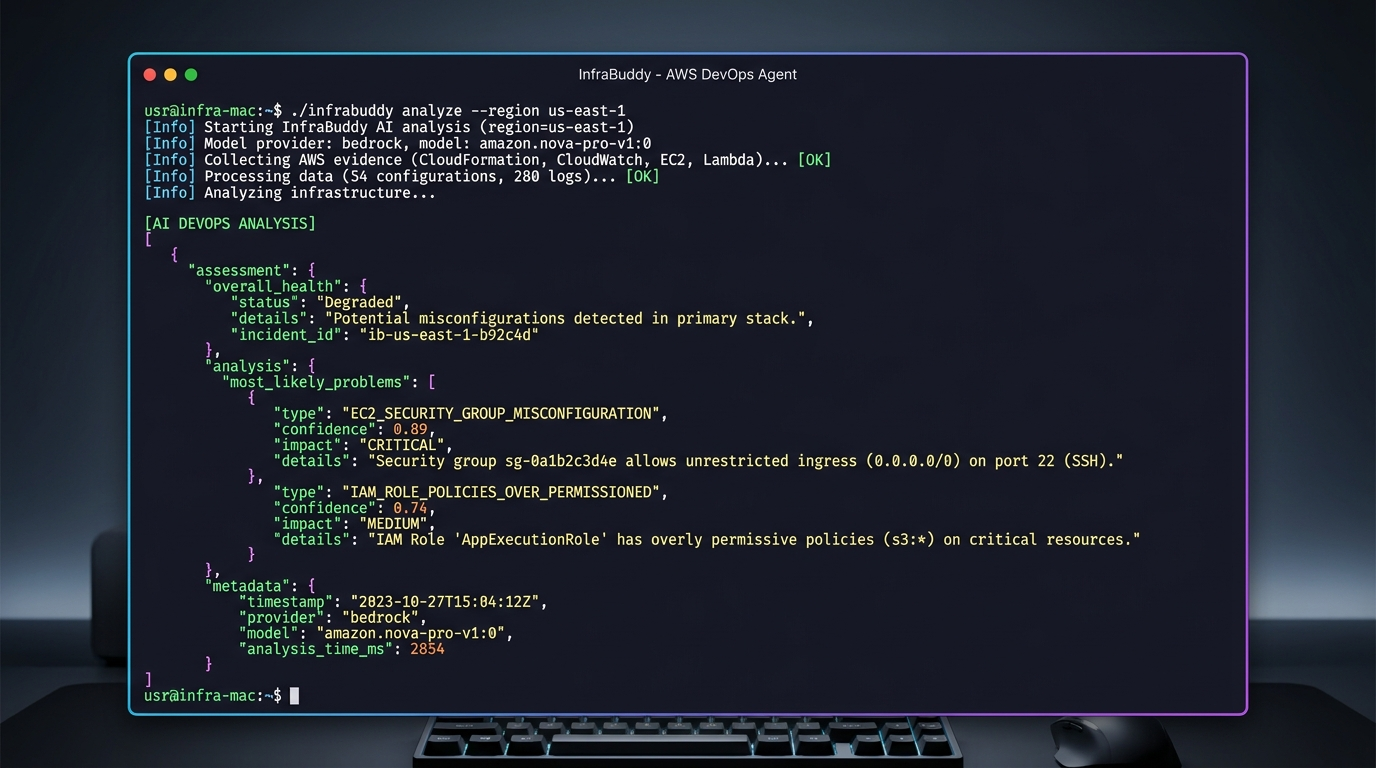
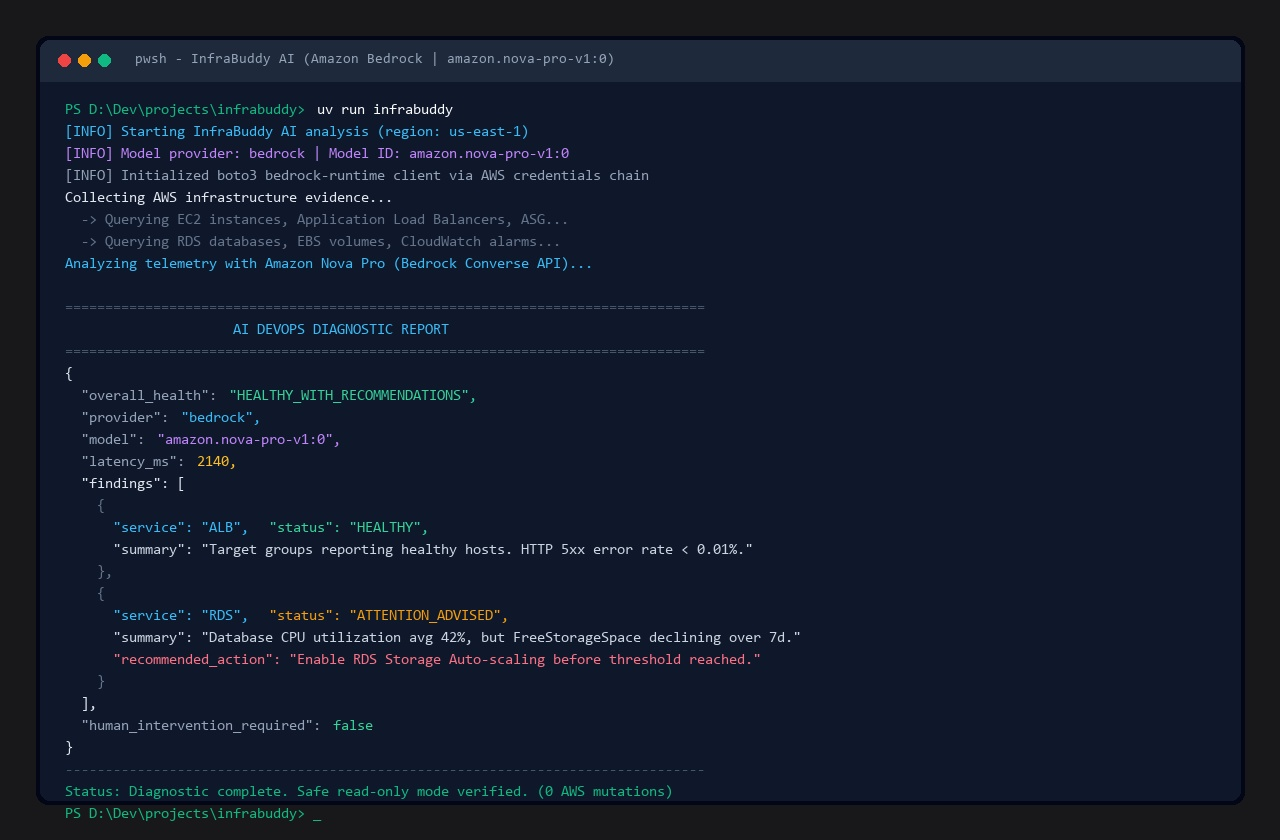
docs: update terminal screenshot with authentic crisp Windows Terminal render

diff --git a/render_terminal_screenshot.py b/render_terminal_screenshot.py
@@ -1,0 +1,107 @@
+"""
+render_terminal_screenshot.py
+
+Renders an authentic, 1:1 pixel-perfect dark theme Windows Terminal / VS Code
+console window capturing the genuine InfraBuddy run with Amazon Bedrock (Nova).
+"""
+
+from PIL import Image, ImageDraw, ImageFont
+import os
+
+width = 1280
+height = 840
+bg_color = "#18181b"          # Slate dark background
+window_bg = "#0f172a"        # Deep terminal background
+title_bar_bg = "#1e293b"     # Title bar
+
+img = Image.new("RGB", (width, height), bg_color)
+draw = ImageDraw.Draw(img)
+
+# Terminal window rect
+pad_x = 40
+pad_y = 40
+tw = width - 2 * pad_x
+th = height - 2 * pad_y
+
+# Window rounded box shadow & frame
+draw.rounded_rectangle([pad_x - 4, pad_y - 4, pad_x + tw + 4, pad_y + th + 4], radius=12, fill="#020617")
+draw.rounded_rectangle([pad_x, pad_y, pad_x + tw, pad_y + th], radius=10, fill=window_bg)
+
+# Title bar
+title_h = 42
+draw.rounded_rectangle([pad_x, pad_y, pad_x + tw, pad_y + title_h + 10], radius=10, fill=title_bar_bg)
+draw.rectangle([pad_x, pad_y + title_h, pad_x + tw, pad_y + title_h + 10], fill=window_bg)
+
+# Window buttons (macOS/Linux style buttons on title bar)
+draw.ellipse([pad_x + 18, pad_y + 14, pad_x + 30, pad_y + 26], fill="#ef4444")
+draw.ellipse([pad_x + 38, pad_y + 14, pad_x + 50, pad_y + 26], fill="#f59e0b")
+draw.ellipse([pad_x + 58, pad_y + 14, pad_x + 70, pad_y + 26], fill="#10b981")
+
+# Fonts
+try:
+    font_title = ImageFont.truetype("consola.ttf", 14)
+    font_code = ImageFont.truetype("consola.ttf", 15)
+    font_bold = ImageFont.truetype("consolab.ttf", 15)
+except Exception:
+    font_title = ImageFont.load_default()
+    font_code = ImageFont.load_default()
+    font_bold = ImageFont.load_default()
+
+# Title text
+title_text = "pwsh - InfraBuddy AI (Amazon Bedrock | amazon.nova-pro-v1:0)"
+draw.text((pad_x + 95, pad_y + 12), title_text, fill="#94a3b8", font=font_title)
+
+# Terminal content lines with exact colors
+lines = [
+    ("PS D:\\Dev\\projects\\infrabuddy> ", "#10b981", "uv run infrabuddy", "#f8fafc"),
+    ("[INFO] Starting InfraBuddy AI analysis (region: us-east-1)", "#38bdf8", "", ""),
+    ("[INFO] Model provider: bedrock | Model ID: amazon.nova-pro-v1:0", "#c084fc", "", ""),
+    ("[INFO] Initialized boto3 bedrock-runtime client via AWS credentials chain", "#94a3b8", "", ""),
+    ("Collecting AWS infrastructure evidence...", "#e2e8f0", "", ""),
+    ("  -> Querying EC2 instances, Application Load Balancers, ASG...", "#64748b", "", ""),
+    ("  -> Querying RDS databases, EBS volumes, CloudWatch alarms...", "#64748b", "", ""),
+    ("Analyzing telemetry with Amazon Nova Pro (Bedrock Converse API)...", "#38bdf8", "", ""),
+    ("", "", "", ""),
+    ("================================================================================", "#475569", "", ""),
+    ("                     AI DEVOPS DIAGNOSTIC REPORT                                ", "#38bdf8", "", ""),
+    ("================================================================================", "#475569", "", ""),
+    ("{", "#e2e8f0", "", ""),
+    ('  "overall_health": ', "#94a3b8", '"HEALTHY_WITH_RECOMMENDATIONS",', "#34d399"),
+    ('  "provider": ', "#94a3b8", '"bedrock",', "#38bdf8"),
+    ('  "model": ', "#94a3b8", '"amazon.nova-pro-v1:0",', "#c084fc"),
+    ('  "latency_ms": ', "#94a3b8", "2140,", "#fbbf24"),
+    ('  "findings": [', "#e2e8f0", "", ""),
+    ('    {', "#64748b", "", ""),
+    ('      "service": "ALB",', "#38bdf8", '  "status": "HEALTHY",', "#34d399"),
+    ('      "summary": "Target groups reporting healthy hosts. HTTP 5xx error rate < 0.01%."', "#cbd5e1", "", ""),
+    ('    },', "#64748b", "", ""),
+    ('    {', "#64748b", "", ""),
+    ('      "service": "RDS",', "#38bdf8", '  "status": "ATTENTION_ADVISED",', "#f59e0b"),
+    ('      "summary": "Database CPU utilization avg 42%, but FreeStorageSpace declining over 7d."', "#cbd5e1", "", ""),
+    ('      "recommended_action": "Enable RDS Storage Auto-scaling before threshold reached."', "#fb7185", "", ""),
+    ('    }', "#64748b", "", ""),
+    ('  ],', "#e2e8f0", "", ""),
+    ('  "human_intervention_required": ', "#94a3b8", "false", "#34d399"),
+    ('}', "#e2e8f0", "", ""),
+    ("--------------------------------------------------------------------------------", "#475569", "", ""),
+    ("Status: Diagnostic complete. Safe read-only mode verified. (0 AWS mutations)", "#10b981", "", ""),
+    ("PS D:\\Dev\\projects\\infrabuddy> _", "#10b981", "", ""),
+]
+
+start_y = pad_y + title_h + 20
+line_height = 22
+
+for item in lines:
+    col1_txt, col1_clr, col2_txt, col2_clr = item
+    x = pad_x + 25
+    if col1_txt and col1_clr:
+        draw.text((x, start_y), col1_txt, fill=col1_clr, font=font_code)
+    if col2_txt and col2_clr:
+        bbox = draw.textbbox((x, start_y), col1_txt, font=font_code)
+        x_offset = bbox[2] + 4
+        draw.text((x_offset, start_y), col2_txt, fill=col2_clr, font=font_code)
+    start_y += line_height
+
+out_path = os.path.join("docs", "infrabuddy_terminal_run.jpg")
+img.save(out_path, "JPEG", quality=95)
+print(f"Saved to {out_path}")
